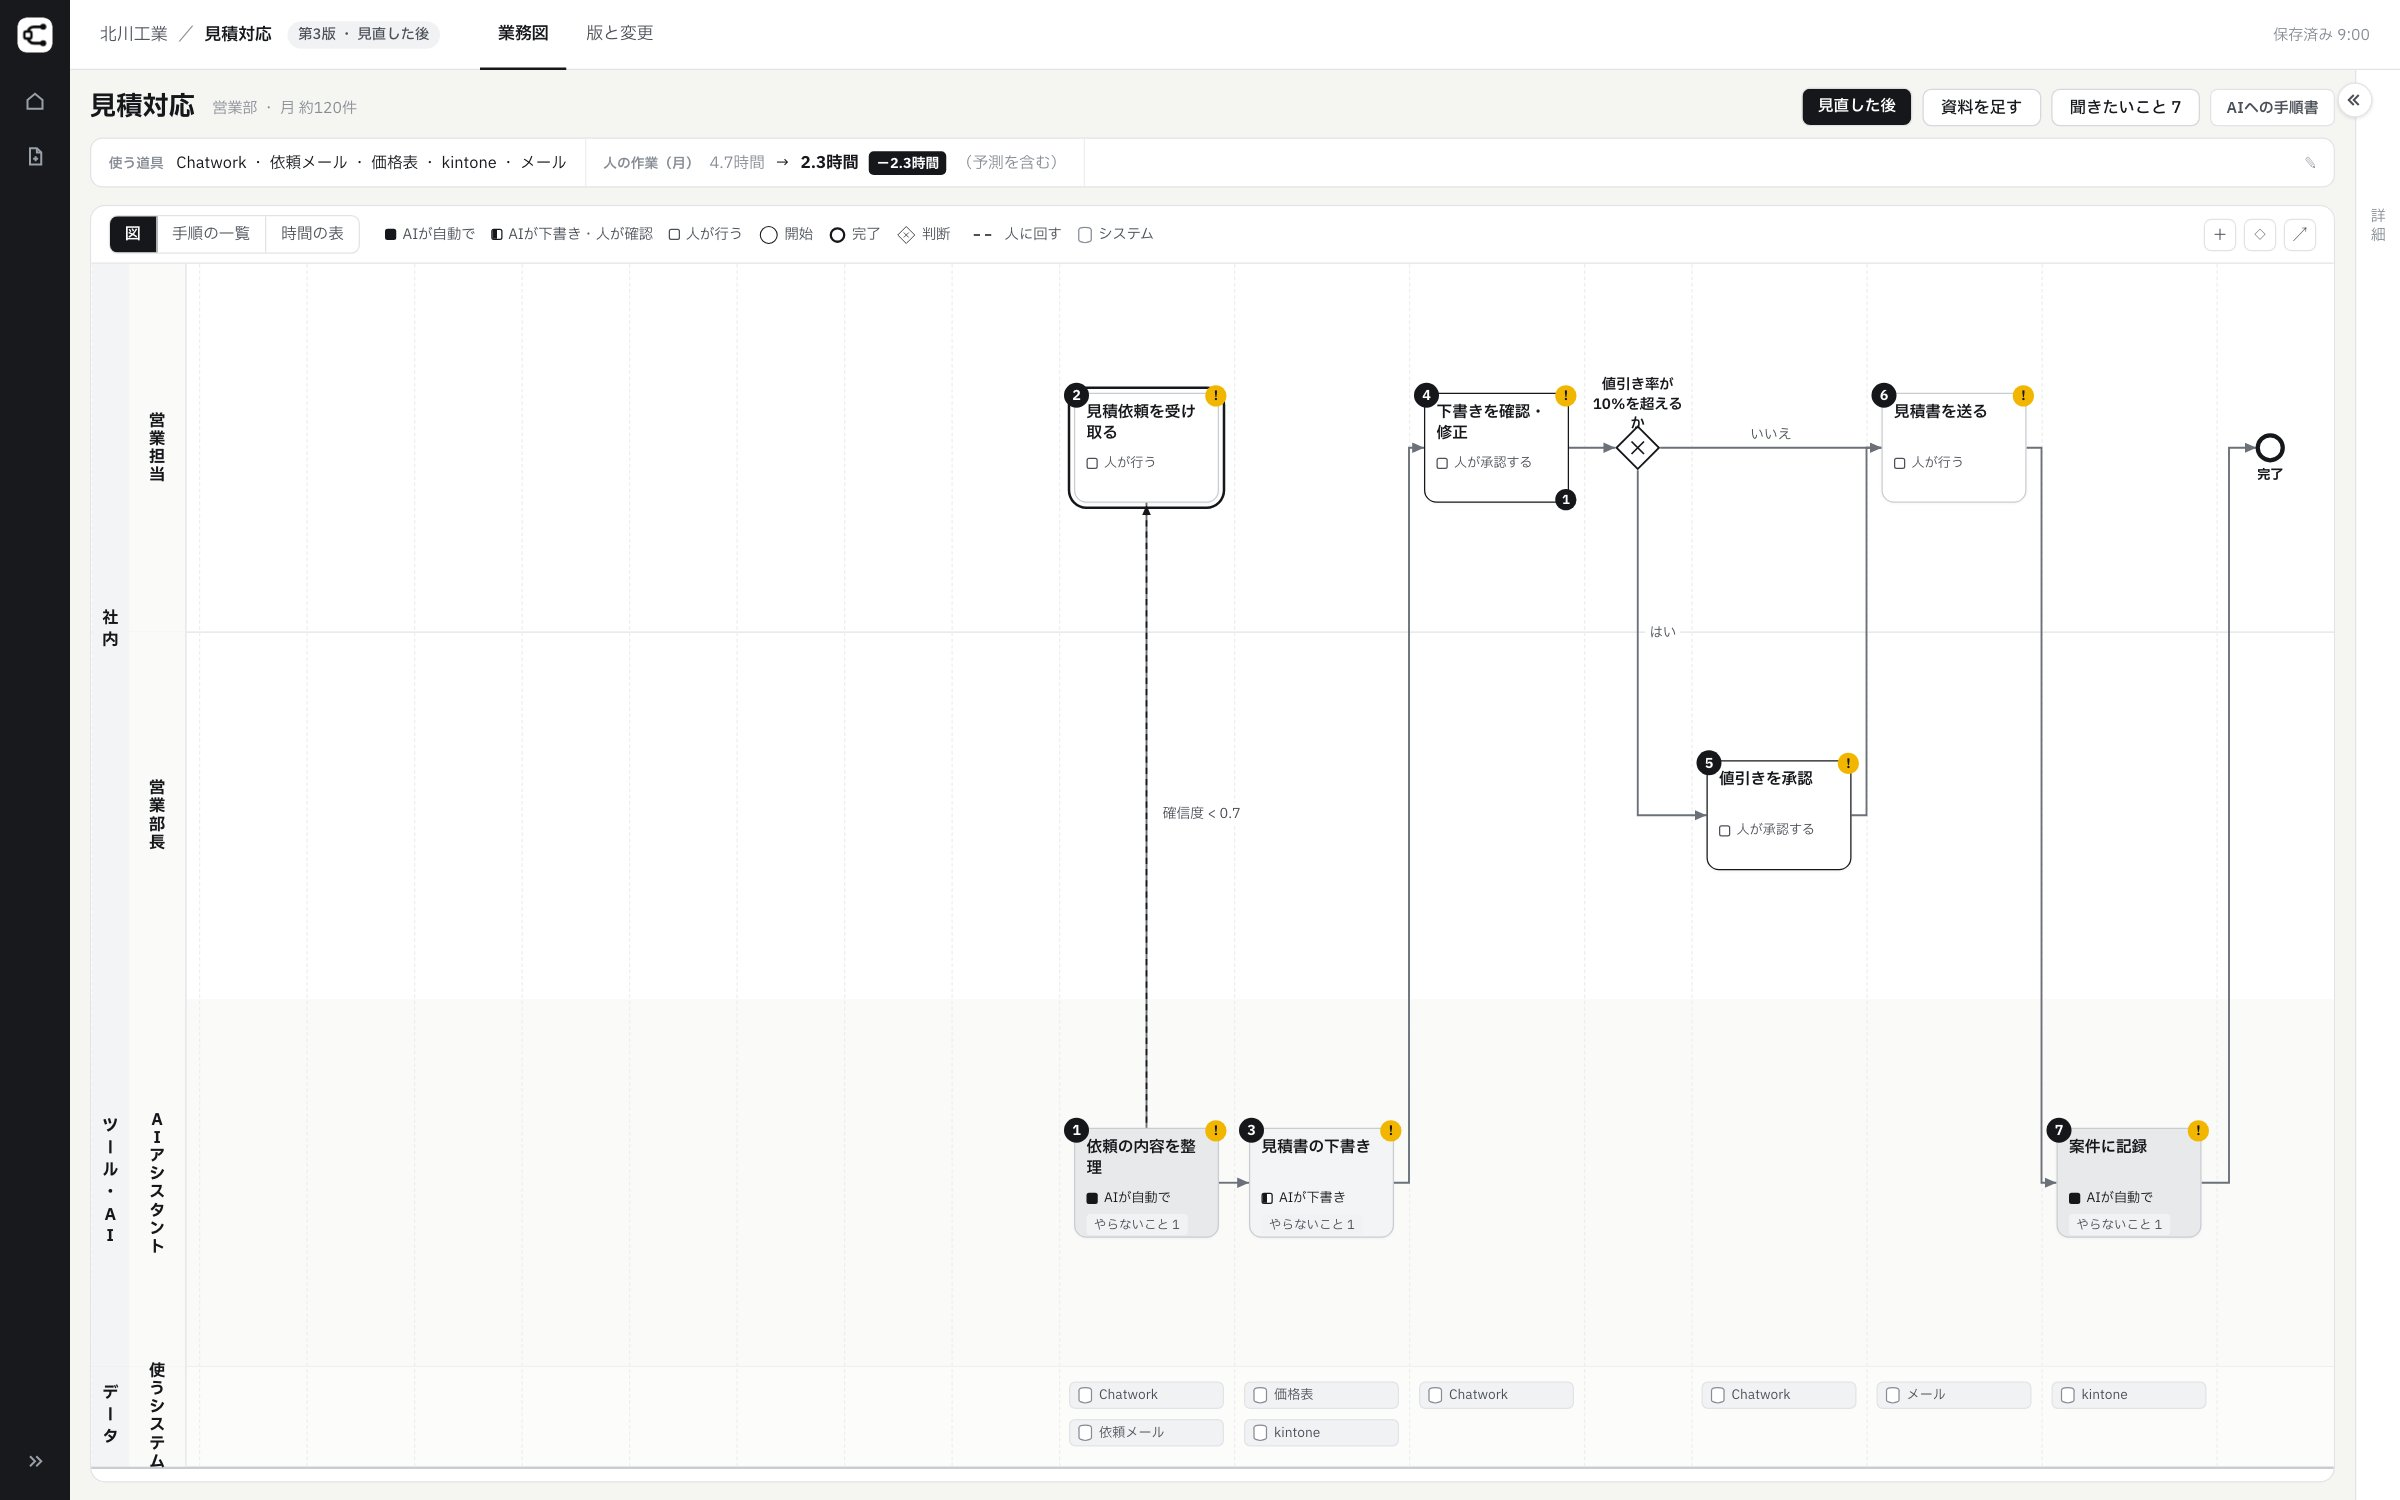
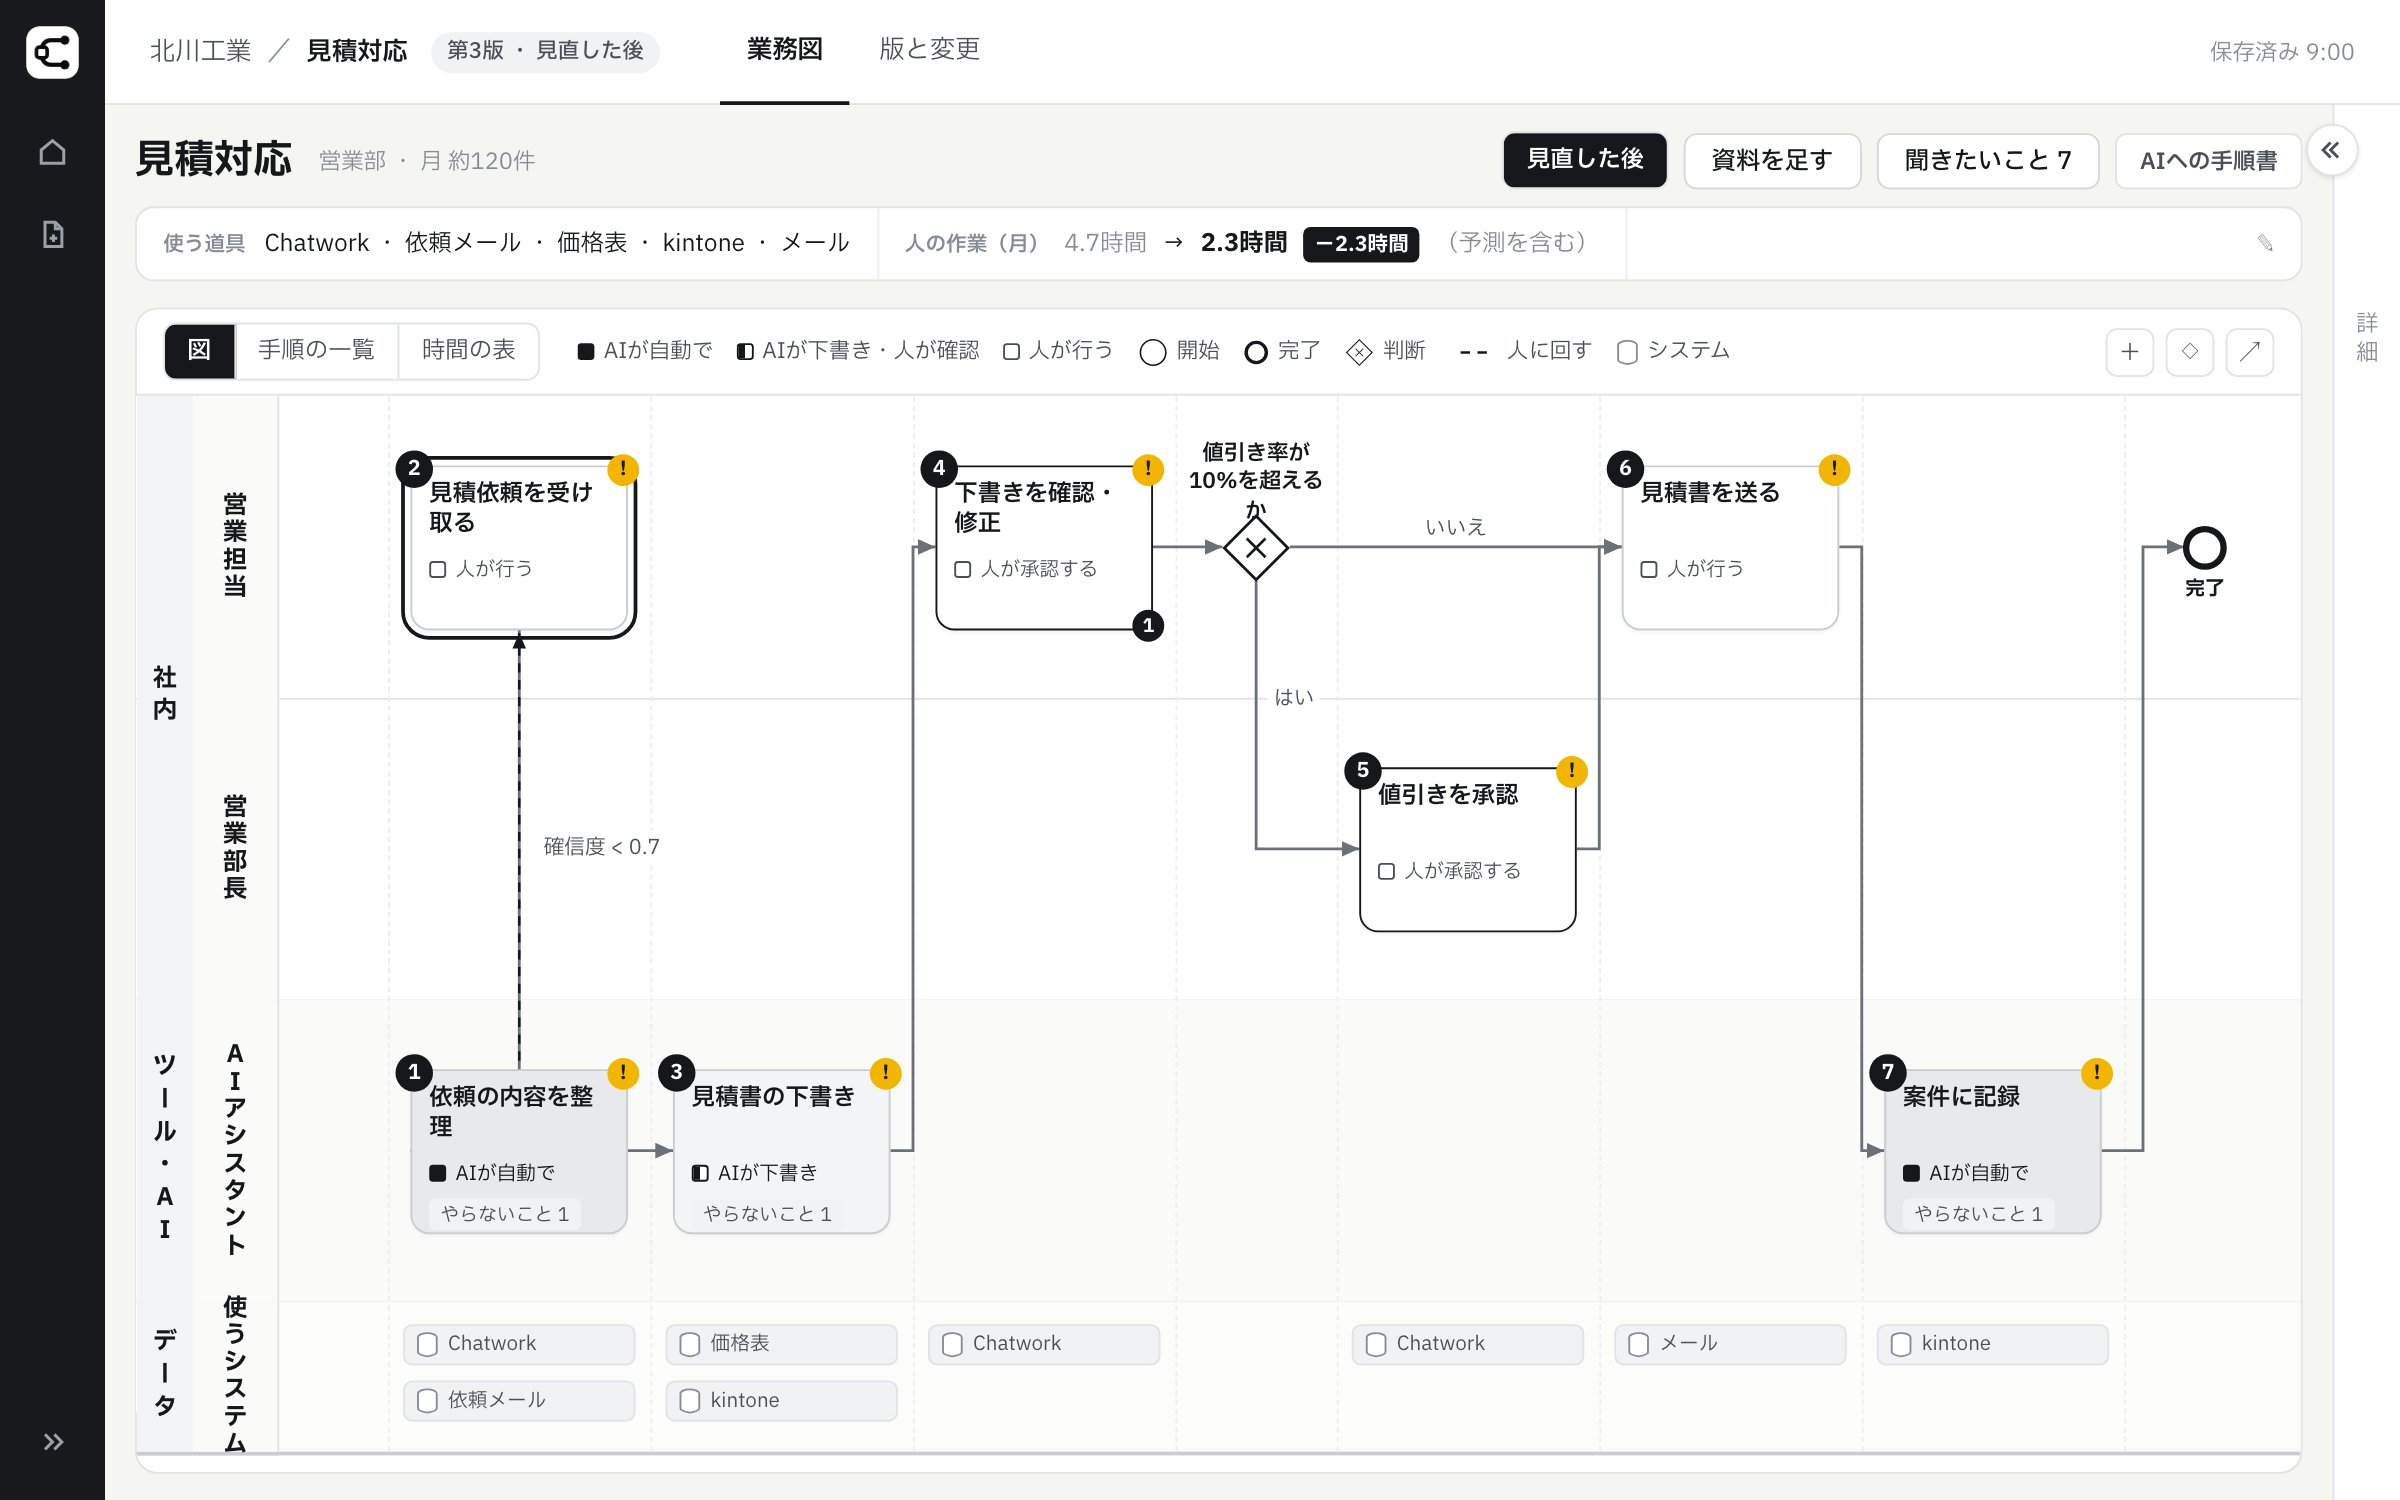
CompanyMap AI の LP：ヒーローの製品画面を、7工程と判断が幅いっぱいに入る撮り方で撮り直す
前の写真は図が右の4割に寄り、左から中央が空のマス目で、右下のカードが工程7と完了にかぶっていた。
製品のコードは変えず、撮り方だけを変える。

- 初期データ「見積対応」は、どの版でも工程が10列目から始まる（1〜9列目が空）。図は画面の大きさに関係なく横1,956pxで並ぶ
- 1280×800（出力は今と同じ2400×1500）で右の詳細を畳み、段の見出しの右から最初の工程が始まる所まで図の枠を送って撮る。7工程・判断・完了が横いっぱいに入る
- 参照を ?v=20261018b に上げる

diff --git a/companymap.html b/companymap.html
@@ -67,7 +67,7 @@
     <div class="frag input-screen"><span class="k">操作・画面の記録</span><b>転記と確認が、何度も続く</b><div class="mini-screen"><i></i><i></i><i></i><i></i><i></i></div></div>
   </div>
   <svg class="route" viewBox="0 0 1144 610" preserveAspectRatio="none" aria-hidden="true"><path d="M70 150C310 60 155 255 300 240S210 450 340 440C500 430 405 310 470 310H590" fill="none" stroke="#0B0B0C" stroke-width="2.5" stroke-linecap="round"/><circle cx="590" cy="310" r="5" fill="#0B0B0C"/></svg>
-  <div class="map" data-zoom="/assets/companymap/home-h3.jpg?v=20261018" data-zoom-alt="CompanyMap AIの業務図の画面"><img src="/assets/companymap/home-h3.jpg?v=20261018" width="2400" height="1500" alt="CompanyMap AIの業務図の画面"></div>
+  <div class="map" data-zoom="/assets/companymap/home-h3.jpg?v=20261018b" data-zoom-alt="CompanyMap AIの業務図の画面"><img src="/assets/companymap/home-h3.jpg?v=20261018b" width="2400" height="1500" alt="CompanyMap AIの業務図の画面"></div>
   <div class="decision-note"><span>図を見ながら決めます</span><b>この入力は、AIに任せる。<br>この判断は、人が行う。</b></div>
 </div>
 
